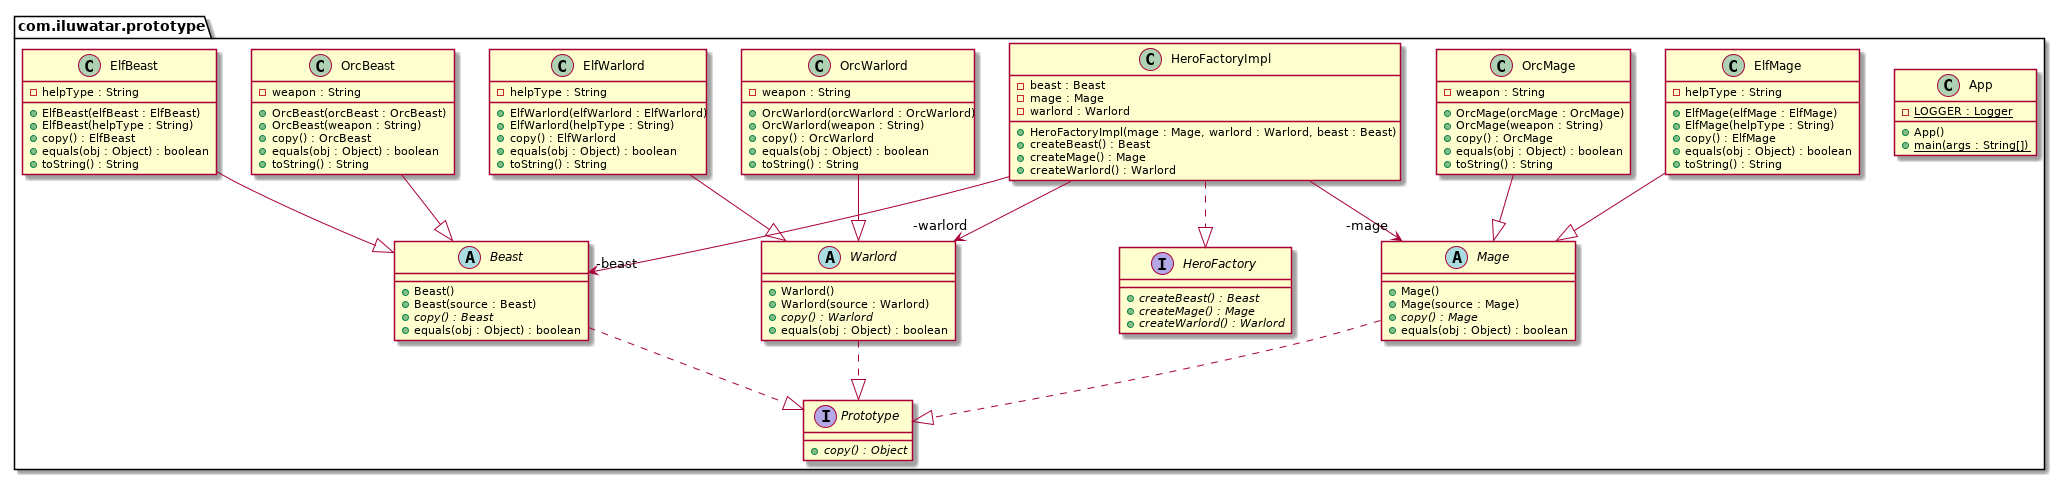
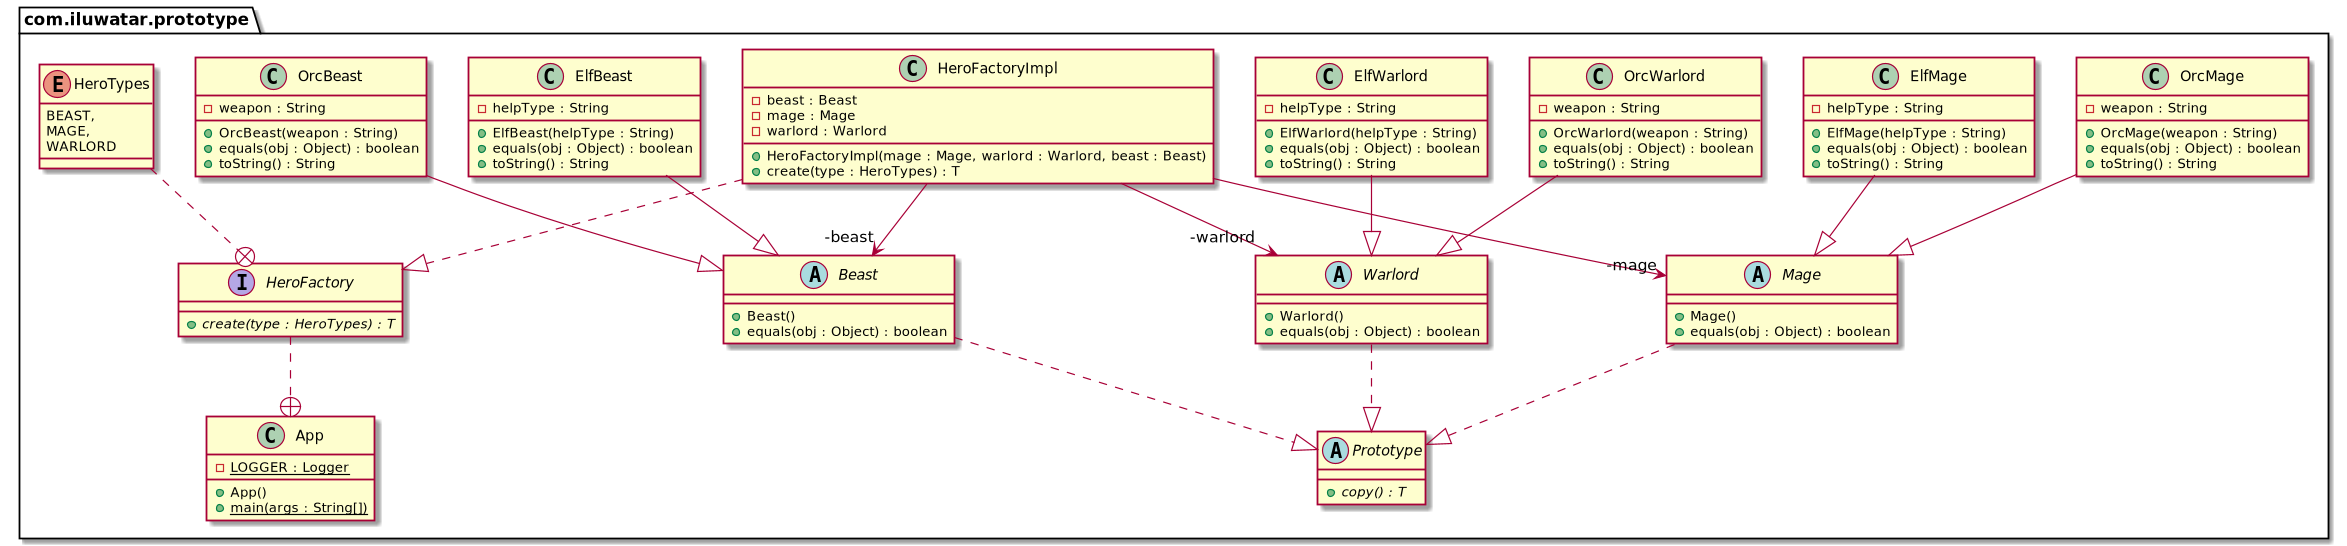
584 Refactor protorype pattern.

diff --git a/prototype/src/main/java/com/iluwatar/prototype/App.java b/prototype/src/main/java/com/iluwatar/prototype/App.java
@@ -49,9 +49,10 @@ public class App {
         new ElfWarlord("cleaning"),
         new ElfBeast("protecting")
     );
-    var mage = factory.createMage();
-    var warlord = factory.createWarlord();
-    var beast = factory.createBeast();
+
+    var mage = factory.create(HeroTypes.MAGE);
+    var warlord = factory.create(HeroTypes.WARLORD);
+    var beast = factory.create(HeroTypes.BEAST);
     LOGGER.info(mage.toString());
     LOGGER.info(warlord.toString());
     LOGGER.info(beast.toString());
@@ -61,9 +62,10 @@ public class App {
         new OrcWarlord("sword"),
         new OrcBeast("laser")
     );
-    mage = factory.createMage();
-    warlord = factory.createWarlord();
-    beast = factory.createBeast();
+
+    mage = factory.create(HeroTypes.MAGE);
+    warlord = factory.create(HeroTypes.WARLORD);
+    beast = factory.create(HeroTypes.BEAST);
     LOGGER.info(mage.toString());
     LOGGER.info(warlord.toString());
     LOGGER.info(beast.toString());

diff --git a/prototype/src/main/java/com/iluwatar/prototype/HeroFactoryImpl.java b/prototype/src/main/java/com/iluwatar/prototype/HeroFactoryImpl.java
@@ -35,25 +35,15 @@ public class HeroFactoryImpl implements HeroFactory {
   private final Warlord warlord;
   private final Beast beast;
 
-  /**
-   * Create mage.
-   */
-  public Mage createMage() {
-    return mage.copy();
+  public <T> T create(HeroTypes type) {
+    switch (type) {
+      case BEAST:
+        return (T) beast.copy();
+      case MAGE:
+        return (T) mage.copy();
+      case WARLORD:
+        return (T) warlord.copy();
+    }
+    return null;
   }
-
-  /**
-   * Create warlord.
-   */
-  public Warlord createWarlord() {
-    return warlord.copy();
-  }
-
-  /**
-   * Create beast.
-   */
-  public Beast createBeast() {
-    return beast.copy();
-  }
-
 }

diff --git a/prototype/src/main/java/com/iluwatar/prototype/Prototype.java b/prototype/src/main/java/com/iluwatar/prototype/Prototype.java
@@ -23,11 +23,21 @@
 
 package com.iluwatar.prototype;
 
+import lombok.extern.slf4j.Slf4j;
+
 /**
  * Prototype.
  */
-public interface Prototype {
+@Slf4j
+public abstract class Prototype<H> implements Cloneable {
 
-  Object copy();
+    public H copy() {
+        try {
+            return (H) super.clone();
+        } catch (CloneNotSupportedException e) {
+            LOGGER.error("Failed to clone {}!", this.getClass().getName());
+        }
+        return null;
+    }
 
 }

diff --git a/prototype/src/main/java/com/iluwatar/prototype/ElfWarlord.java b/prototype/src/main/java/com/iluwatar/prototype/ElfWarlord.java
@@ -37,16 +37,6 @@ public class ElfWarlord extends Warlord {
     this.helpType = helpType;
   }
 
-  public ElfWarlord(ElfWarlord elfWarlord) {
-    super(elfWarlord);
-    this.helpType = elfWarlord.helpType;
-  }
-
-  @Override
-  public ElfWarlord copy() {
-    return new ElfWarlord(this);
-  }
-
   @Override
   public String toString() {
     return "Elven warlord helps in " + helpType;

diff --git a/prototype/src/main/java/com/iluwatar/prototype/OrcWarlord.java b/prototype/src/main/java/com/iluwatar/prototype/OrcWarlord.java
@@ -35,16 +35,6 @@ public class OrcWarlord extends Warlord {
 
   private final String weapon;
 
-  public OrcWarlord(OrcWarlord orcWarlord) {
-    super(orcWarlord);
-    this.weapon = orcWarlord.weapon;
-  }
-
-  @Override
-  public OrcWarlord copy() {
-    return new OrcWarlord(this);
-  }
-
   @Override
   public String toString() {
     return "Orcish warlord attacks with " + weapon;

diff --git a/prototype/src/main/java/com/iluwatar/prototype/ElfBeast.java b/prototype/src/main/java/com/iluwatar/prototype/ElfBeast.java
@@ -35,16 +35,6 @@ public class ElfBeast extends Beast {
 
   private final String helpType;
 
-  public ElfBeast(ElfBeast elfBeast) {
-    super(elfBeast);
-    this.helpType = elfBeast.helpType;
-  }
-
-  @Override
-  public ElfBeast copy() {
-    return new ElfBeast(this);
-  }
-
   @Override
   public String toString() {
     return "Elven eagle helps in " + helpType;

diff --git a/prototype/src/main/java/com/iluwatar/prototype/OrcBeast.java b/prototype/src/main/java/com/iluwatar/prototype/OrcBeast.java
@@ -35,16 +35,6 @@ public class OrcBeast extends Beast {
 
   private final String weapon;
 
-  public OrcBeast(OrcBeast orcBeast) {
-    super(orcBeast);
-    this.weapon = orcBeast.weapon;
-  }
-
-  @Override
-  public OrcBeast copy() {
-    return new OrcBeast(this);
-  }
-
   @Override
   public String toString() {
     return "Orcish wolf attacks with " + weapon;

diff --git a/prototype/src/main/java/com/iluwatar/prototype/ElfMage.java b/prototype/src/main/java/com/iluwatar/prototype/ElfMage.java
@@ -35,16 +35,6 @@ public class ElfMage extends Mage {
 
   private final String helpType;
 
-  public ElfMage(ElfMage elfMage) {
-    super(elfMage);
-    this.helpType = elfMage.helpType;
-  }
-
-  @Override
-  public ElfMage copy() {
-    return new ElfMage(this);
-  }
-
   @Override
   public String toString() {
     return "Elven mage helps in " + helpType;

diff --git a/prototype/src/main/java/com/iluwatar/prototype/OrcMage.java b/prototype/src/main/java/com/iluwatar/prototype/OrcMage.java
@@ -35,16 +35,6 @@ public class OrcMage extends Mage {
 
   private final String weapon;
 
-  public OrcMage(OrcMage orcMage) {
-    super(orcMage);
-    this.weapon = orcMage.weapon;
-  }
-
-  @Override
-  public OrcMage copy() {
-    return new OrcMage(this);
-  }
-
   @Override
   public String toString() {
     return "Orcish mage attacks with " + weapon;

diff --git a/prototype/src/main/java/com/iluwatar/prototype/Warlord.java b/prototype/src/main/java/com/iluwatar/prototype/Warlord.java
@@ -31,12 +31,6 @@ import lombok.NoArgsConstructor;
  */
 @EqualsAndHashCode
 @NoArgsConstructor
-public abstract class Warlord implements Prototype {
-
-  public Warlord(Warlord source) {
-  }
-
-  @Override
-  public abstract Warlord copy();
+public abstract class Warlord extends Prototype<Warlord> {
 
 }

diff --git a/prototype/src/main/java/com/iluwatar/prototype/Beast.java b/prototype/src/main/java/com/iluwatar/prototype/Beast.java
@@ -31,12 +31,6 @@ import lombok.NoArgsConstructor;
  */
 @EqualsAndHashCode
 @NoArgsConstructor
-public abstract class Beast implements Prototype {
-
-  public Beast(Beast source) {
-  }
-
-  @Override
-  public abstract Beast copy();
+public abstract class Beast extends Prototype<Beast> {
 
 }

diff --git a/prototype/src/main/java/com/iluwatar/prototype/Mage.java b/prototype/src/main/java/com/iluwatar/prototype/Mage.java
@@ -31,12 +31,6 @@ import lombok.NoArgsConstructor;
  */
 @EqualsAndHashCode
 @NoArgsConstructor
-public abstract class Mage implements Prototype {
-
-  public Mage(Mage source) {
-  }
-
-  @Override
-  public abstract Mage copy();
+public abstract class Mage extends Prototype<Mage> {
 
 }
